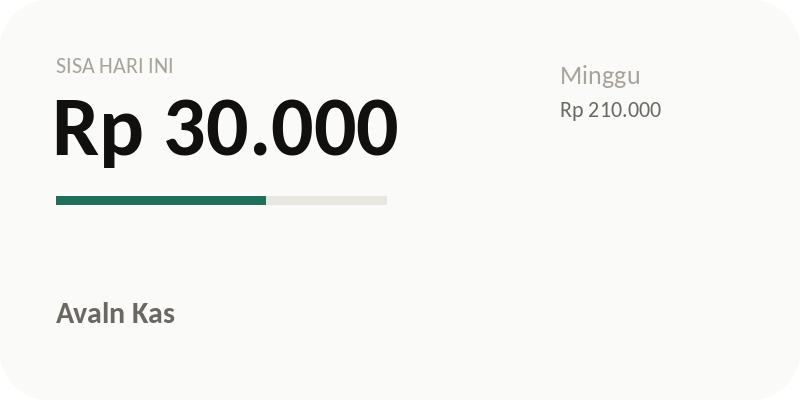
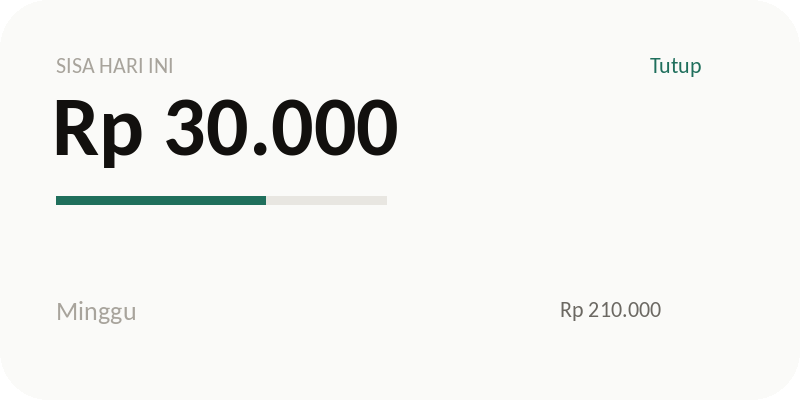
feat(widget): layout penuh, resize, tombol sembunyikan saldo

diff --git a/src/features/widget/budget-widget.tsx b/src/features/widget/budget-widget.tsx
@@ -11,6 +11,9 @@ export interface BudgetWidgetData {
   sisaHariIni: number;
   sisaMinggu: number;
   state?: WidgetState;
+  hidden?: boolean;
+  width?: number;
+  height?: number;
 }
 
 type Hex = `#${string}`;
@@ -37,73 +40,93 @@ const PALETTE: Record<
   },
 };
 
+const MASK = 'Rp ••••••';
+
 export function BudgetWidget({ data, theme }: { data: BudgetWidgetData; theme: WidgetTheme }) {
   const c = PALETTE[theme];
   const state = data.state ?? 'ready';
-  const negative = data.sisaHariIni < 0;
+  const hidden = data.hidden ?? false;
+  const compact = (data.height ?? 200) < 110;
+  const narrow = (data.width ?? 250) < 200;
+  const amountSize = narrow ? 22 : 30;
 
   return (
     <FlexWidget
       clickAction="OPEN_APP"
+      accessibilityLabel="Avaln Kas, ketuk untuk membuka"
       style={{
         width: 'match_parent',
         height: 'match_parent',
         backgroundColor: c.bg,
         borderRadius: 24,
-        paddingHorizontal: 16,
-        paddingVertical: 14,
-        flexDirection: 'row',
-        alignItems: 'center',
+        paddingHorizontal: 14,
+        paddingVertical: 12,
+        flexDirection: 'column',
         justifyContent: 'space-between',
       }}
     >
-      <FlexWidget style={{ flex: 1, flexDirection: 'column' }}>
+      <FlexWidget
+        style={{
+          flexDirection: 'row',
+          alignItems: 'center',
+          justifyContent: 'space-between',
+          width: 'match_parent',
+        }}
+      >
         <TextWidget
           text="SISA HARI INI"
-          style={{ fontSize: 10, letterSpacing: 1.2, color: c.ink3 }}
+          style={{ fontSize: compact ? 9 : 10, letterSpacing: 1.1, color: c.ink3 }}
         />
-
         {state === 'ready' ? (
-          <FlexWidget style={{ flexDirection: 'column' }}>
-            <TextWidget
-              text={formatRp(data.sisaHariIni)}
-              style={{
-                fontSize: 30,
-                fontWeight: 'bold',
-                color: negative ? c.danger : c.ink,
-                marginTop: 2,
-                adjustsFontSizeToFit: true,
-              }}
-              maxLines={1}
-            />
-            <FlexWidget
-              style={{
-                width: 96,
-                height: 2,
-                marginTop: 8,
-                backgroundColor: c.accent,
-              }}
-            />
-          </FlexWidget>
+          <TextWidget
+            text={hidden ? 'Lihat' : 'Tutup'}
+            clickAction="TOGGLE_HIDDEN"
+            accessibilityLabel={hidden ? 'Tampilkan saldo' : 'Sembunyikan saldo'}
+            style={{ fontSize: 10, color: c.accent }}
+          />
+        ) : null}
+      </FlexWidget>
+
+      <FlexWidget style={{ flexDirection: 'column', justifyContent: 'center', flex: 1 }}>
+        {state === 'ready' ? (
+          <TextWidget
+            text={hidden ? MASK : formatRp(data.sisaHariIni)}
+            style={{
+              fontSize: amountSize,
+              fontWeight: 'bold',
+              color: !hidden && data.sisaHariIni < 0 ? c.danger : c.ink,
+              marginTop: 2,
+            }}
+            maxLines={1}
+          />
         ) : (
           <TextWidget
             text={state === 'loading' ? 'Memuat…' : 'Buka Avaln Kas'}
-            style={{ fontSize: 18, color: c.ink2, marginTop: 6 }}
+            style={{ fontSize: 16, color: c.ink2, marginTop: 4 }}
             maxLines={1}
           />
         )}
+
+        {state === 'ready' ? (
+          <FlexWidget style={{ width: 72, height: 2, marginTop: 8, backgroundColor: c.accent }} />
+        ) : null}
       </FlexWidget>
 
-      {state === 'ready' ? (
-        <FlexWidget style={{ flexDirection: 'column', alignItems: 'flex-end', marginLeft: 12 }}>
+      {state === 'ready' && !compact ? (
+        <FlexWidget
+          style={{
+            flexDirection: 'row',
+            alignItems: 'center',
+            justifyContent: 'space-between',
+            width: 'match_parent',
+          }}
+        >
           <TextWidget text="Minggu" style={{ fontSize: 11, color: c.ink3 }} />
           <TextWidget
-            text={formatRp(data.sisaMinggu)}
+            text={hidden ? '••••••' : formatRp(data.sisaMinggu)}
             style={{
-              fontSize: 13,
-              color: data.sisaMinggu < 0 ? c.danger : c.ink2,
-              marginTop: 2,
-              adjustsFontSizeToFit: true,
+              fontSize: 12,
+              color: !hidden && data.sisaMinggu < 0 ? c.danger : c.ink2,
             }}
             maxLines={1}
           />

diff --git a/src/features/widget/task-handler.tsx b/src/features/widget/task-handler.tsx
@@ -2,14 +2,20 @@ import type { WidgetTaskHandlerProps } from 'react-native-android-widget';
 
 import { BudgetWidget } from './budget-widget';
 import { BUDGET_WIDGET_NAME } from './constants';
-import { loadWidgetData } from './data';
+import { loadWidgetData, type WidgetData } from './data';
+import { getWidgetHidden, setWidgetHidden } from './prefs';
+
+const EMPTY: WidgetData = { sisaHariIni: 0, sisaMinggu: 0 };
 
 function render(
   props: WidgetTaskHandlerProps,
-  data: { sisaHariIni: number; sisaMinggu: number },
+  data: WidgetData,
   state: 'loading' | 'ready' | 'error',
+  hidden: boolean,
 ) {
-  const payload = { ...data, state };
+  const { width, height } = props.widgetInfo;
+  const payload = { ...data, state, hidden, width, height };
+
   props.renderWidget({
     light: <BudgetWidget data={payload} theme="light" />,
     dark: <BudgetWidget data={payload} theme="dark" />,
@@ -17,23 +23,29 @@ function render(
 }
 
 /**
- * Dipanggil Android saat widget ditambah, di-resize, atau di-refresh berkala.
- * Saat WIDGET_ADDED, render placeholder dulu supaya widget tidak kosong.
+ * Dipanggil Android saat widget ditambah, di-resize, di-refresh berkala,
+ * atau saat tombol "Tutup/Lihat" ditekan.
  */
 export async function widgetTaskHandler(props: WidgetTaskHandlerProps) {
   if (props.widgetInfo.widgetName !== BUDGET_WIDGET_NAME) return;
   if (props.widgetAction === 'WIDGET_DELETED') return;
 
-  const empty = { sisaHariIni: 0, sisaMinggu: 0 };
+  let hidden = await getWidgetHidden();
+
+  if (props.widgetAction === 'WIDGET_CLICK') {
+    if (props.clickAction !== 'TOGGLE_HIDDEN') return;
+    hidden = !hidden;
+    await setWidgetHidden(hidden);
+  }
 
   if (props.widgetAction === 'WIDGET_ADDED') {
-    render(props, empty, 'loading');
+    render(props, EMPTY, 'loading', hidden);
   }
 
   try {
     const data = await loadWidgetData();
-    render(props, data, 'ready');
+    render(props, data, 'ready', hidden);
   } catch {
-    render(props, empty, 'error');
+    render(props, EMPTY, 'error', hidden);
   }
 }

diff --git a/src/features/widget/update.tsx b/src/features/widget/update.tsx
@@ -3,14 +3,27 @@ import { requestWidgetUpdate } from 'react-native-android-widget';
 import { BudgetWidget } from './budget-widget';
 import { BUDGET_WIDGET_NAME } from './constants';
 import type { WidgetData } from './data';
+import { getWidgetHidden } from './prefs';
 
 /** Dimuat dinamis supaya Expo Go (tanpa modul native) tetap aman. */
 export async function updateBudgetWidget(data: WidgetData): Promise<void> {
+  const hidden = await getWidgetHidden();
+
   await requestWidgetUpdate({
     widgetName: BUDGET_WIDGET_NAME,
-    renderWidget: () => ({
-      light: <BudgetWidget data={data} theme="light" />,
-      dark: <BudgetWidget data={data} theme="dark" />,
+    renderWidget: (info) => ({
+      light: (
+        <BudgetWidget
+          data={{ ...data, hidden, width: info.width, height: info.height }}
+          theme="light"
+        />
+      ),
+      dark: (
+        <BudgetWidget
+          data={{ ...data, hidden, width: info.width, height: info.height }}
+          theme="dark"
+        />
+      ),
     }),
   });
 }

diff --git a/src/features/widget/prefs.ts b/src/features/widget/prefs.ts
@@ -1,0 +1,20 @@
+import Storage from 'expo-sqlite/kv-store';
+
+const KEY = 'widget_hidden';
+
+/** Preferensi sembunyikan saldo di widget, dipakai juga di konteks headless. */
+export async function getWidgetHidden(): Promise<boolean> {
+  try {
+    return (await Storage.getItem(KEY)) === '1';
+  } catch {
+    return false;
+  }
+}
+
+export async function setWidgetHidden(hidden: boolean): Promise<void> {
+  try {
+    await Storage.setItem(KEY, hidden ? '1' : '0');
+  } catch {
+    // Preferensi gagal disimpan: widget tetap merender state saat ini.
+  }
+}

diff --git a/scripts/generate-widget-preview.py b/scripts/generate-widget-preview.py
@@ -18,14 +18,15 @@ big = ImageFont.truetype("/usr/share/fonts/google-carlito-fonts/Carlito-Bold.ttf
 small = ImageFont.truetype("/usr/share/fonts/google-carlito-fonts/Carlito-Regular.ttf", 26)
 
 d.text((56, 56), "SISA HARI INI", font=label, fill=INK3)
+d.text((650, 56), "Tutup", font=label, fill=ACCENT)
 d.text((52, 92), "Rp 30.000", font=big, fill=INK)
 d.rectangle([56, 196, 56 + 210, 204], fill=ACCENT)
 d.rectangle([56 + 210, 196, 56 + 330, 204], fill=(232, 230, 225))
 
-d.text((560, 64), "Minggu", font=small, fill=INK3)
-d.text((560, 100), "Rp 210.000", font=label, fill=INK2)
+d.text((56, 300), "Minggu", font=small, fill=INK3)
+d.text((560, 300), "Rp 210.000", font=label, fill=INK2)
 
-d.text((56, 300), "Avaln Kas", font=bold, fill=INK2)
+
 
 img.save("assets/widget-preview/budget.png", "PNG")
 print("preview saved")

diff --git a/README.md b/README.md
@@ -26,8 +26,9 @@ SQLite device, backup lewat file JSON.
   plus sisihkan/tarik manual, **target**, dan **sesuaikan saldo** (koreksi tanpa
   mengubah jatah mingguan)
 - **Ringkasan bulanan** — pengeluaran per kategori, pemasukan, tabungan, selisih
-- **Widget home screen** — sisa hari ini & minggu ini; tambahkan dari
-  Setelan → Tampilan → “Widget home screen” (khusus APK, bukan Expo Go)
+- **Widget home screen** — sisa hari ini & minggu ini, bisa di-resize, tombol
+  **Tutup/Lihat** untuk menyembunyikan saldo; tambahkan dari Setelan → Tampilan
+  (khusus APK, bukan Expo Go)
 - **Dark mode** — ikut sistem atau pilih Terang/Gelap; palet charcoal, bukan hitam pekat
 - **Tambah cepat** — tulis “kopi 18rb” atau “kemarin parkir 5rb”; parser lokal jalan
   offline, AI Gemini opsional untuk kalimat bebas
